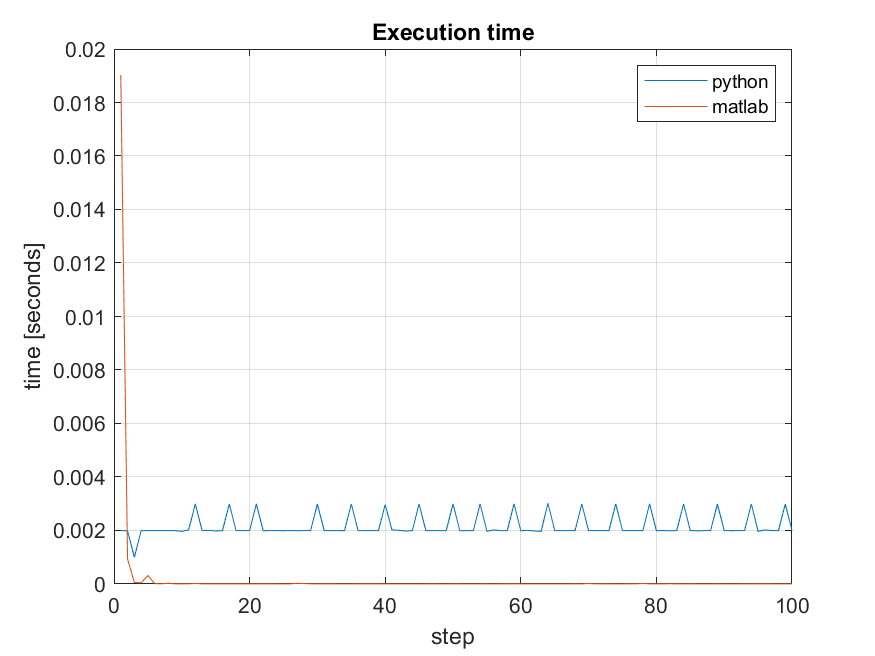
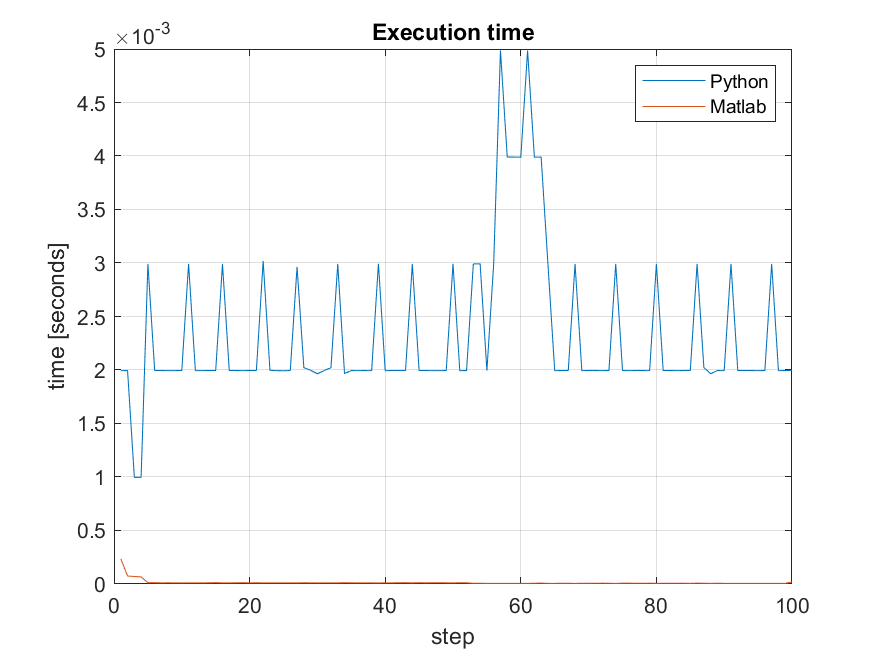
model 2 closer to working

diff --git a/MPC_setup.py b/MPC_setup.py
@@ -9,7 +9,7 @@ def deb(A):
     print("dimention:")
     print(A.shape)
 
-MODEL = 1
+MODEL = 2
 
 
 
@@ -34,6 +34,28 @@ if (MODEL == 1):
 
     sys = ss(A,B,C,0,1)
 
+if (MODEL == 2):
+    #4-state example from paper with Florin, example 2
+    A = np.array([[0.928, 0.002, -0.003, -0.004], [0.041, 0.954, 0.012, 0.006], [-0.052, -0.046, 0.893, -0.003], [-0.069, 0.051, 0.032, 0.935]])
+    B = np.array([[0, 0.336], [0.183, 0.007], [0.090,  -0.009], [0.042, 0.012]])  
+    C = np.array([[0, 0, -0.098, 0.269], [0, 0, 0.080, 0.327]])
+
+    nx = 4
+    ny = 2
+    nu = 2
+    n = 30
+
+    sys = ss(A,B,C,0,1); #creating state space model
+
+    qy = np.identity(2)
+    Q = (C.transpose()).dot(qy).dot(C)
+    R = np.identity(nu)
+
+    umin = np.array([[-1], [-1]])
+    umax = np.array([[1], [1]])
+    ymin = np.array([[-1], [-1]]) 
+    ymax = np.array([[1], [1]])
+    
 
 K, S, E = lqr(sys, Q, R) #stusser litt på at E ikke er identisk med matlab, men tror ikke det er av betydning
 
@@ -53,8 +75,12 @@ hy = np.concatenate((hy, np.kron(np.ones((n-1,1)),-1*ymin)))
 #Hh, hn = termset(A,B,C,K,ymax,ymin,umax,umin)
 #Dette er en hardkodet work-around som leser fra txt.fil generert i matlab og flyttet 
 #manuelt til rett mappe
-Hn = np.genfromtxt('A.txt')
-hn = (np.genfromtxt('B.txt'))
+if (MODEL == 1):
+    Hn = np.genfromtxt('A.txt') 
+    hn = (np.genfromtxt('B.txt'))
+if (MODEL == 2):
+    Hn = np.genfromtxt('A2.txt') 
+    hn = (np.genfromtxt('B2.txt'))
 hn = np.transpose(np.matrix(hn))
 
 Hy = daug(Hy, Hn)

diff --git a/MPC_run.py b/MPC_run.py
@@ -12,6 +12,8 @@ tend = 100
 if (MODEL == 1):
     xinit = np.matrix([[5], [-2]])
     xinit = np.matrix([[-6], [1.1]])
+if (MODEL == 2):
+    xinit = np.matrix([[25.5724],[25.3546],[9.7892],[0.2448]])
 
 x0 = xinit
 
@@ -37,6 +39,8 @@ hifu = -hif[0:nu, :]
 
 actsets = np.zeros((nc,1))
 Qsp0 = np.identity(nc)
+print(np.shape(Qsp0))
+print(Qsp0[313, 314])
 
 
 for i in range(tend):
@@ -49,6 +53,8 @@ for i in range(tend):
     ix = 0
 
     Qmat0i = Qsp0
+    ylist = []
+    vAdlist = []
 
     y0 = np.subtract(-Sz.dot(x0), Wz)
     while (not (solved)):
@@ -60,7 +66,7 @@ for i in range(tend):
         else:
             q = (y0[iz].item())*vAd
             y01 = np.squeeze(y0)
-            y = np.subtract((y0), (y0[iz].item())*vAd) #veldig spess men tar vector minus vector og får matrise??
+            y = np.subtract((y0), (y0[iz].item())*vAd)
             y0 = y
         
         lam = np.multiply((y),actset) #elementvis?
@@ -75,6 +81,8 @@ for i in range(tend):
             actset[iz] = 0 
             qc = 1
         else:
+            O = y-lam 
+            O2 = np.subtract(y, lam)
             i2 = max(y-lam)
             i2z = np.argmax(y-lam)
             if (i2): 
@@ -98,7 +106,7 @@ for i in range(tend):
 
                 break
 
-            Qmat1i = np.subtract(Qmat0i, -vAd@np.matrix(Qmat0i[iz,:]))
+            Qmat1i = np.subtract(Qmat0i, vAd@np.matrix(Qmat0i[iz,:]))
             Qmat0i = Qmat1i
 
         else:

diff --git a/plotting.m b/plotting.m
@@ -1,19 +1,16 @@
+format long
 
-
-fileID = fopen('execution_time.txt', 'r');
-formatSpec = '%c';
-A = fscanf(fileID,formatSpec);
 B = readmatrix('execution_time.txt');
 python_times = B
 python_times = python_times(2:101)./1000000
 
 
-f = figure("Name", "myfig")
+f = figure("Name", "myfig");
 plot(python_times);
 hold on;
 plot(tosave);
 hold off;
-legend('python','matlab')
+legend('Python','Matlab')
 title('Execution time');
 ylabel('time [seconds]')
 xlabel('step')
